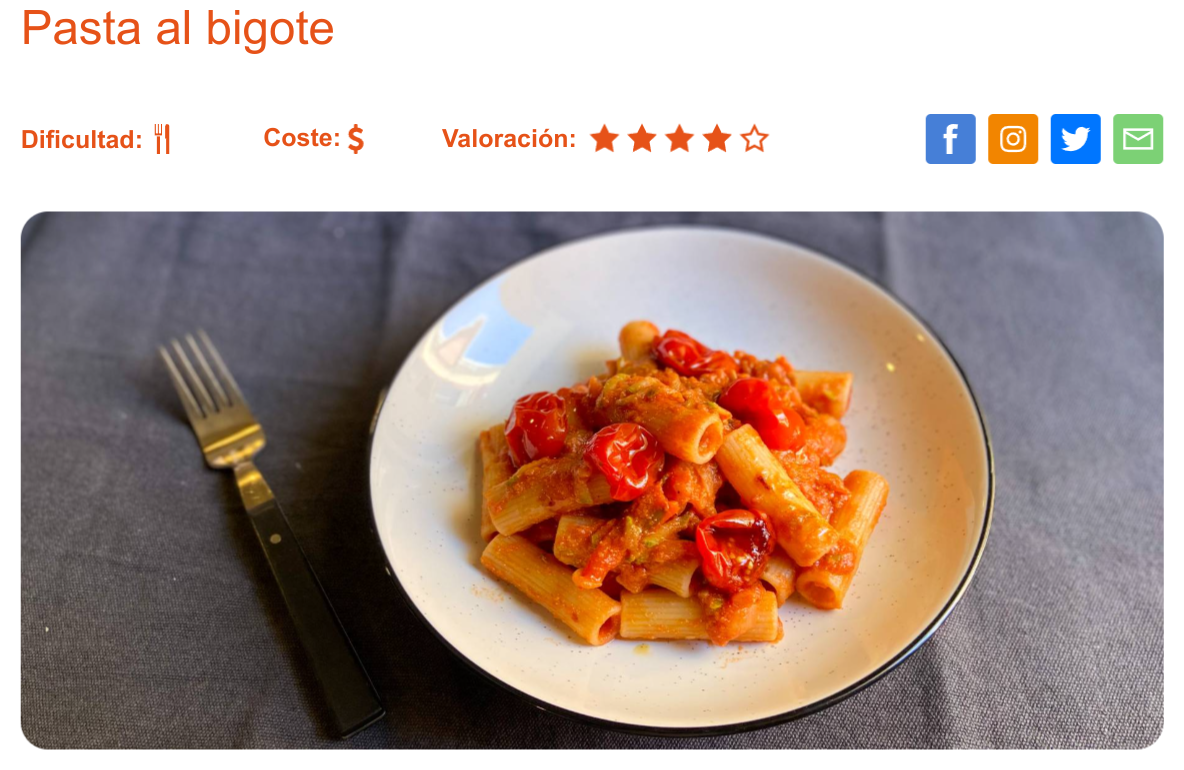
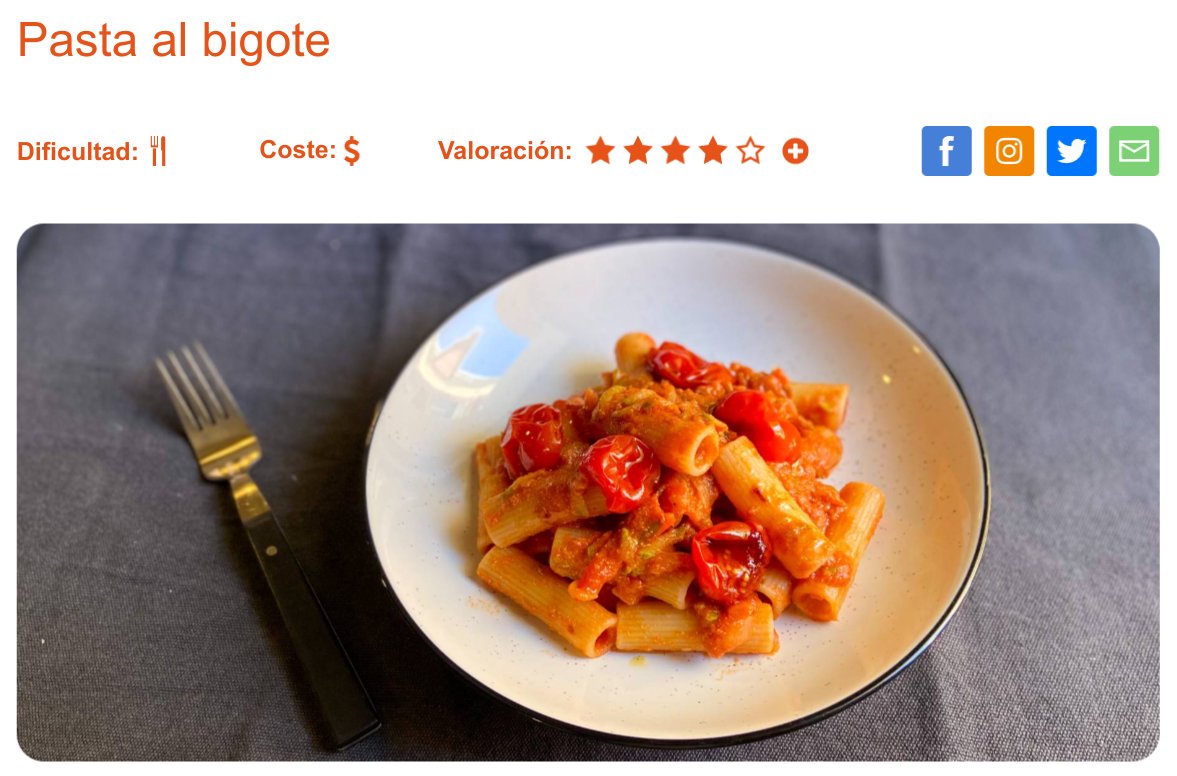
Apartado 4 terminado a falta de revisar.
Añadida información sobre la alimentación sana

diff --git a/03MASW_04_A_2022-23_Ingeniería Software Web/Actividad_3/Actividad_3.tex b/03MASW_04_A_2022-23_Ingeniería Software Web/Actividad_3/Actividad_3.tex
@@ -332,7 +332,7 @@ Tal como se ha visto en el apartado anterior, junto con la información de la re
     \vspace{-20pt}
 \end{center}
 
-Al hacer click sobre ellas se permitirá la compartición de la receta a traveś de las distintas redes sociales:
+Al hacer click sobre ellas se permitirá la compartición de la receta a través de las distintas redes sociales:
 
 \begin{itemize}
     \item Facebook
@@ -341,12 +341,125 @@ Al hacer click sobre ellas se permitirá la compartición de la receta a traveś
     \item E-mail
 \end{itemize}
 
+Al hacer click en los iconos, nos aparecerá una pequeña ventana “\textit{pop-up}” para indicar a quién queremos compartir la receta:
 
+\begin{center}
+    \vspace{-10pt}
+    \includegraphics[width=0.4\linewidth]{img/aic/compartir_2.png}
+    \vspace{-20pt}
+\end{center}
+
+Y tras darle al botón “compartir” se compartirá a través de la red social elegida o a través de un correo electrónico, de haber sido esa la opción elegida.
+
+
+\section{Valorar receta}
+En la visualización de la receta, entre el título y la foto principal, aparece la información de la valoración que tiene la receta actualmente junto con el símbolo “+”.
+
+\begin{center}
+    \vspace{-10pt}
+    \includegraphics[width=0.4\linewidth]{img/aic/valorar.png}
+    \vspace{-20pt}
+\end{center}
+
+Este es el sistema utilizado para poder visualizar cuál es la valoración que los usuarios han otorgado a la receta, y el símbolo “+” servirá a los usuarios para valorar la receta. Al hacer click sobre el símbolo se abrirá un \textit{pop-up} en el que podremos valorar la receta que estamos visualizando actualmente.
+
+\begin{center}
+    \vspace{-10pt}
+    \includegraphics[width=0.4\linewidth]{img/aic/valorar_2.png}
+    \vspace{-10pt}
+\end{center}
+
+De esta manera se podrá seleccionar el número de estrellas que el usuario quiere otorgar a la receta y después hacer click en el botón “valorar” para que dicha valoración se tenga en cuenta.
 
 
 \chapter{Esquema de organización}
 
+La nueva funcionalidad requerida por la \textbf{AIC} es el incorporar contenidos sobre alimentación sana a la aplicación web. Como se ha visto previamente, se ha decidido añadir la categoría “\textbf{Alimentación Sana}” al menú principal que encabeza la página web en todo momento.
 
+Esta categoría es un desplegable que cuenta con tres opciones en las que se ha subdividido la información a modo de subcategorías:
+
+\begin{center}
+    \vspace{-10pt}
+    \includegraphics[width=0.4\linewidth]{img/aic/alimentacion_sana.png}
+    \vspace{-20pt}
+\end{center}
+
+
+Cada una de estas opciones llevará al usuario a su página correspondiente que se detallarán a continuación.
+
+
+\section{Introducción a la alimentación sana}
+La finalidad de esta sección es la de dar información sobre la alimentación al usuario. Esta información ha sido tratada para que se use con un formato coloquial pero que no por ello carezca de información científica y nutricional que sea útil para el usuario.
+
+Para no sólo dar información escrita, se ha hecho uso de la “\textbf{pirámide nutricional} en formato de imagen que permitirá al usuario hacer click en las distintas categorías que la forman para que pueda recibir más información de primera mano sobre la categoría seleccionada.
+
+En la siguiente imagen se pueden ver las distintas secciones en las que se ha separado la pirámide y donde se puede hacer click.
+\begin{center}
+    \vspace{-10pt}
+    \includegraphics[width=0.6\linewidth]{img/aic/alimentacion_sana_piramide_click.png}
+    \vspace{-20pt}
+\end{center}
+
+Tal como se puede apreciar, en la imagen existen distintas zonas en las que se puede hacer click, coincidiendo con los tipos de alimentos y la información, en formato coloquial, que es útil al usuario sobre el número de raciones diarias que debe de tomar.
+
+Al hacer click sobre cualquiera de estas secciones le aparecerá un \textit{pop up} con la información requerida y que aparece sobre la propia pirámide.
+
+\begin{center}
+    \vspace{-10pt}
+    \includegraphics[width=0.6\linewidth]{img/aic/alimentacion_sana_piramide_click_2.png}
+    \vspace{-20pt}
+\end{center}
+
+En este caso, la información trata sobre las carnes rojas, pero aparecerá la información requerida de la sección seleccionada.
+
+Debajo de la pirámide se ha decidido añadir una tabla de manera en la que la información está catalogada de manera más ordenada y dividida entre los distintos tipos de personas (bebe/infantil, joven/adolescente, adulto).
+
+\begin{center}
+    \vspace{-10pt}
+    \includegraphics[width=0.9\linewidth]{img/aic/alimentacion_sana_tabla.png}
+    \vspace{-20pt}
+\end{center}
+
+Haciendo uso de esta tabla, el usuario tendrá a su alcance la información categorizada de manera correcta.
+
+
+\section{Ingredientes}
+La segunda sección añadida en la categoría de alimentación sana es la referida a los \textbf{ingredientes}.
+
+En esta página, para que la navegación sea sencilla a la hora de navegar entre todos los ingredientes existentes en la aplicación, se ha decidido añadir un menú de navegación indexado para poder acceder a los ingredientes teniendo en cuenta la primera letra del mismo:
+
+
+\begin{center}
+    \vspace{-10pt}
+    \includegraphics[frame,width=0.9\linewidth]{img/aic/ingredientes_indice.png}
+    \vspace{-20pt}
+\end{center}
+
+De esta manera acceder al ingrediente buscado es más sencillo y más rápido para el usuario. Al llegar a la sección del ingrediente, se puede hacer click sobre el nombre que llevará al usuario a la página principal del ingrediente donde aparecerá más información del mismo:
+
+\begin{center}
+    \vspace{-10pt}
+    \includegraphics[frame,width=0.9\linewidth]{img/aic/ingredientes_info.png}
+    \vspace{-20pt}
+\end{center}
+
+Tal como se puede ver, para cualquier ingrediente, aparecerá información acerca del mismo junto con una imagen significativa de una receta. En la parte inferior de la página aparece un enlace con “\textbf{{\color{maincolor}Buscar recetas con...}}” que llevará al usuario a la página de búsqueda de recetas pero con el ingrediente ya seleccionado y mostrando sólo las recetas que al menos contengan dicho ingrediente.
+
+Por último, cabe destacar que en la parte superior de la página aparecerá el “camino recorrido por el usuario” para que en todo momento sepa dónde se encuentra, y que cambiará dependiendo del ingrediente en el que se encuentre.
+
+\begin{center}
+    \vspace{-10pt}
+    \textbf{{\color{maincolor}Alimentación sana > \space Ingredientes} >\space Aves}
+    \vspace{-15pt}
+\end{center}
+
+Con todas estas opciones de categorización, junto con el camino del usuario, se trata de hacer que la navegación del usuario sea más sencilla en todo momento.
+
+
+\section{Glosario}
+Para finalizar, la última subsección de la alimentación sana es el glosario, en el que se han añadido distintos términos junto con su información científica, pero de nuevo, usando lenguaje coloquial para los usuarios.
+
+Al igual que sucede con los ingredientes, se ha añadido un índice para que la búsqueda de los términos resulte más sencilla.
 
 
 
